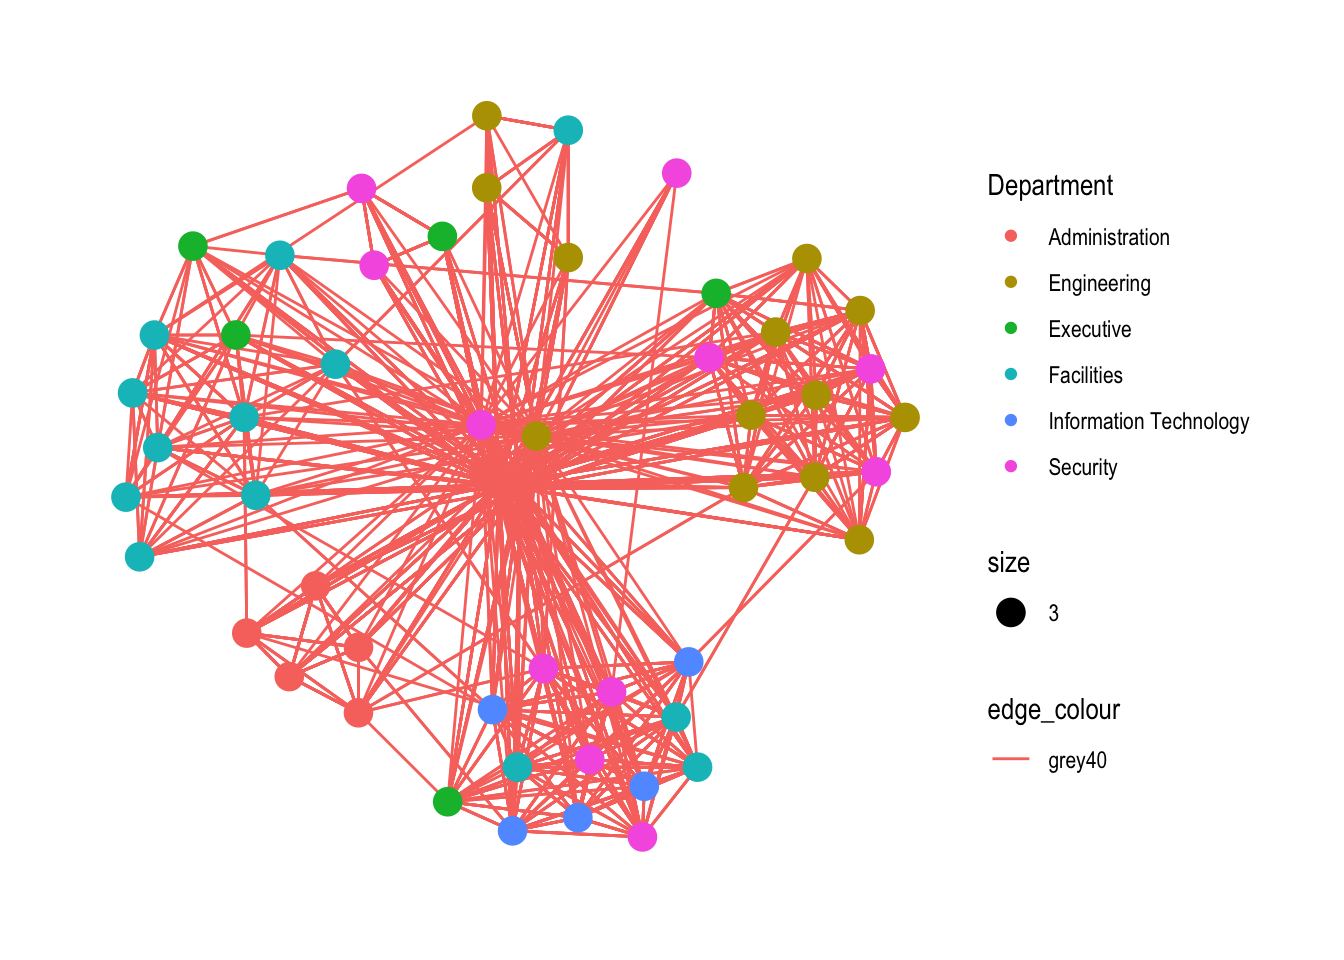
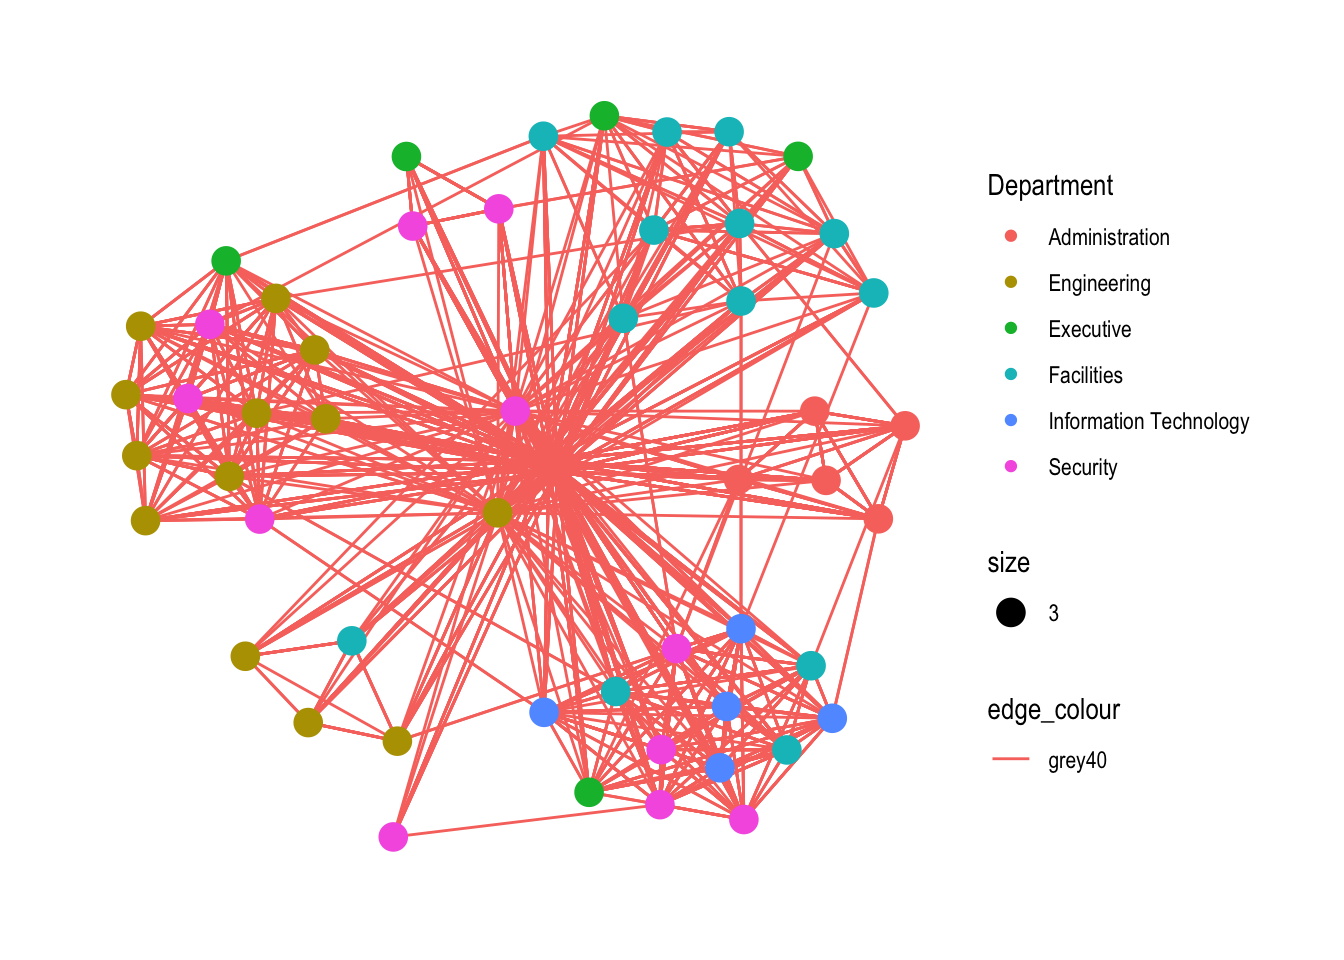
End of Class

Changed region(s): [[0.0625, 0.0938, 0.6875, 0.9062]]

diff --git a/_site/Handson.html b/_site/Handson.html
@@ -166,22 +166,39 @@ ul.task-list li input[type="checkbox"] {
 
 <section id="hands-on-8---network-data" class="level2">
 <h2 class="anchored" data-anchor-id="hands-on-8---network-data">Hands-on 8 - Network Data</h2>
-<section id="download-data" class="level4">
-<h4 class="anchored" data-anchor-id="download-data">Download Data:</h4>
-</section>
-<section id="data-wrangling" class="level4">
-<h4 class="anchored" data-anchor-id="data-wrangling">Data Wrangling:</h4>
+<section id="overview-of-our-dataset" class="level4">
+<h4 class="anchored" data-anchor-id="overview-of-our-dataset"><strong>Overview of our Dataset</strong></h4>
 <div class="cell">
-<div class="cell-output cell-output-stderr">
-<pre><code>Warning: There was 1 warning in `mutate()`.
-ℹ In argument: `SendDate = dmy(SentDate)`.
-Caused by warning:
-! All formats failed to parse. No formats found.</code></pre>
+<div class="cell-output cell-output-stdout">
+<pre><code>[1] "Edges:"</code></pre>
+</div>
+<div class="cell-output cell-output-stdout">
+<pre><code>Rows: 9,063
+Columns: 8
+$ source      &lt;dbl&gt; 43, 43, 44, 44, 44, 44, 44, 44, 44, 44, 44, 44, 26, 26, 26…
+$ target      &lt;dbl&gt; 41, 40, 51, 52, 53, 45, 44, 46, 48, 49, 47, 54, 27, 28, 29…
+$ SentDate    &lt;chr&gt; "6/1/2014", "6/1/2014", "6/1/2014", "6/1/2014", "6/1/2014"…
+$ SentTime    &lt;time&gt; 08:39:00, 08:39:00, 08:58:00, 08:58:00, 08:58:00, 08:58:0…
+$ Subject     &lt;chr&gt; "GT-SeismicProcessorPro Bug Report", "GT-SeismicProcessorP…
+$ MainSubject &lt;chr&gt; "Work related", "Work related", "Work related", "Work rela…
+$ sourceLabel &lt;chr&gt; "Sven.Flecha", "Sven.Flecha", "Kanon.Herrero", "Kanon.Herr…
+$ targetLabel &lt;chr&gt; "Isak.Baza", "Lucas.Alcazar", "Felix.Resumir", "Hideki.Coc…</code></pre>
+</div>
+<div class="cell-output cell-output-stdout">
+<pre><code>[1] "Nodes:"</code></pre>
+</div>
+<div class="cell-output cell-output-stdout">
+<pre><code>Rows: 54
+Columns: 4
+$ id         &lt;dbl&gt; 1, 2, 3, 4, 5, 6, 7, 44, 45, 46, 8, 9, 10, 11, 12, 13, 14, …
+$ label      &lt;chr&gt; "Mat.Bramar", "Anda.Ribera", "Rachel.Pantanal", "Linda.Lago…
+$ Department &lt;chr&gt; "Administration", "Administration", "Administration", "Admi…
+$ Title      &lt;chr&gt; "Assistant to CEO", "Assistant to CFO", "Assistant to CIO",…</code></pre>
 </div>
 </div>
 </section>
-<section id="simple-plotting" class="level4">
-<h4 class="anchored" data-anchor-id="simple-plotting">Simple Plotting:</h4>
+<section id="data-wrangling-basic-plot" class="level4">
+<h4 class="anchored" data-anchor-id="data-wrangling-basic-plot">Data Wrangling &amp; Basic Plot</h4>
 <div class="cell">
 <div class="cell-output cell-output-stdout">
 <pre><code># A tbl_graph: 54 nodes and 1456 edges
@@ -207,15 +224,11 @@ Caused by warning:
 3     3 Rachel.Pantanal Administration Assistant to CIO
 # … with 51 more rows</code></pre>
 </div>
-<div class="cell-output cell-output-stderr">
-<pre><code>Warning: Using the `size` aesthetic in this geom was deprecated in ggplot2 3.4.0.
-ℹ Please use `linewidth` in the `default_aes` field and elsewhere instead.</code></pre>
-</div>
 <div class="cell-output-display">
 <p><img src="Handson_files/figure-html/unnamed-chunk-3-1.png" class="img-fluid" width="672"></p>
 </div>
 </div>
-<p>Beautify it with the fun part - with a variety available.. nicking an image from Prof Kam below;</p>
+<p>&lt;section class=“wrapper”&gt; &lt;div class=“top”&gt;Sliced&lt;/div&gt; &lt;div class=“bottom” aria-hidden=“true”&gt;Sliced&lt;/div&gt; &lt;/section&gt;</p>
 <p><img src="https://isss608-ay2022-23jan.netlify.app/hands-on_ex/hands-on_ex08/img/image9-4.jpg" class="img-fluid"></p>
 <div class="cell">
 <div class="cell-output-display">
